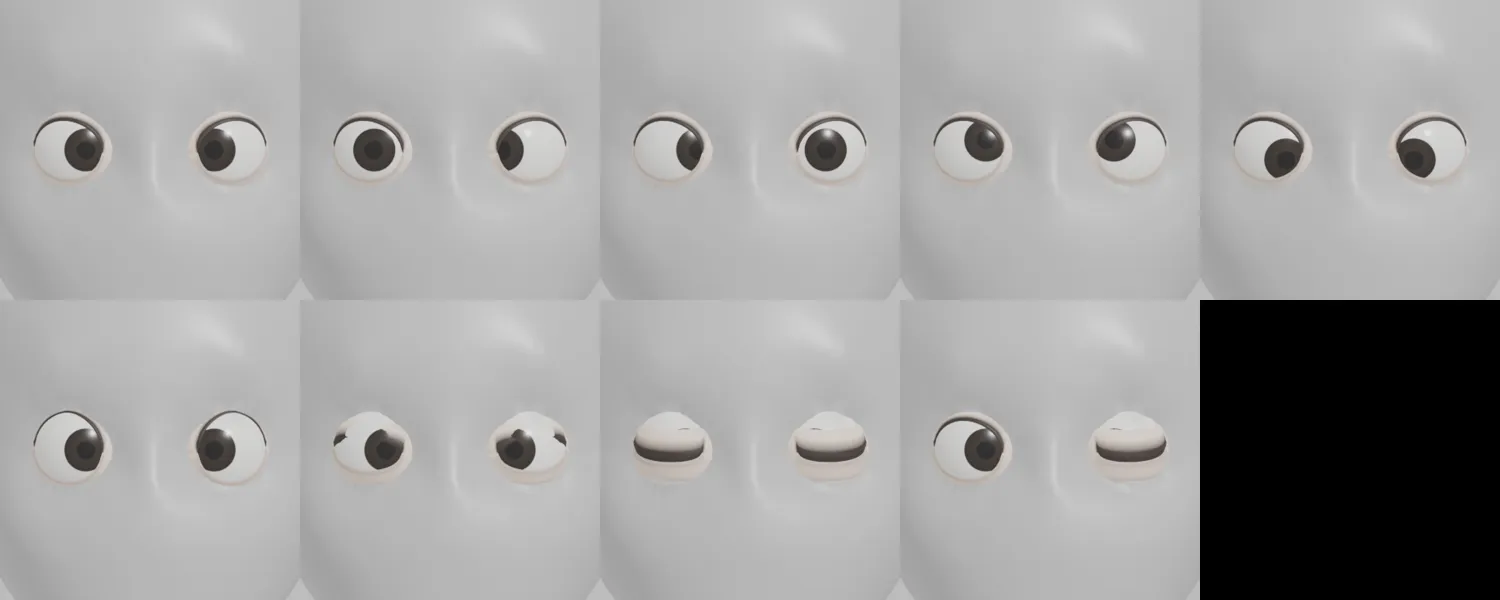
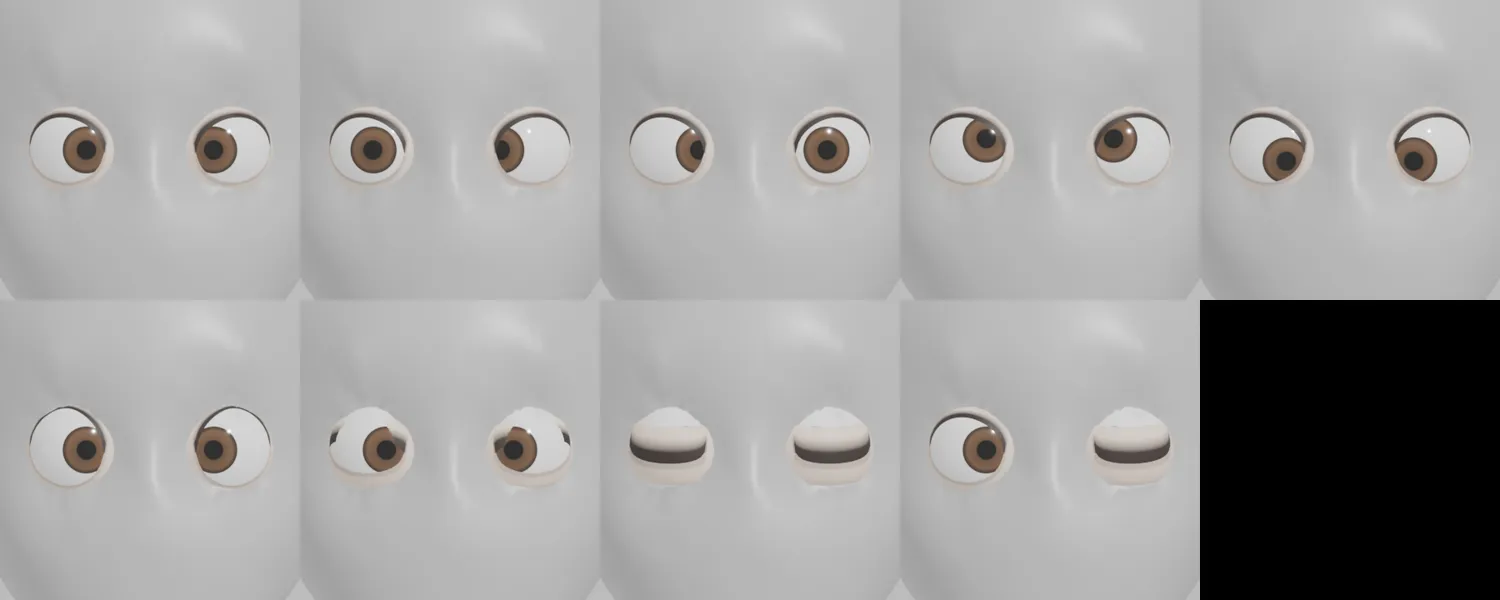
fix(nam-003): mắt Tùng to hơn 10%, mống nâu rõ vân, lòng trắng sạch, viền mí đậm hơn

diff --git a/assets/nhan-vat-3d/nam-003/mat3d_nam003.py b/assets/nhan-vat-3d/nam-003/mat3d_nam003.py
@@ -40,7 +40,7 @@ def _mat_mi(p):
 def _mat_nhan(p, R):
     """Tròng trắng → mống → đồng tử theo khoảng cách tới trục −Y của object (đơn vị theo R)."""
     m = bpy.data.materials.new('NhanCau_' + p['ten']); m.use_nodes = True; nt = m.node_tree; N = nt.nodes; L = nt.links
-    b = N['Principled BSDF']; b.inputs['Roughness'].default_value = 0.25
+    b = N['Principled BSDF']; b.inputs['Roughness'].default_value = 0.12
     tc = N.new('ShaderNodeTexCoord'); sp = N.new('ShaderNodeSeparateXYZ'); L.new(tc.outputs['Object'], sp.inputs[0])
     def op(o, a, bb=None):
         n = N.new('ShaderNodeMath'); n.operation = o
@@ -51,11 +51,11 @@ def _mat_nhan(p, R):
     r = op('SQRT', op('ADD', op('MULTIPLY', sp.outputs['X'], sp.outputs['X']), op('MULTIPLY', sp.outputs['Z'], sp.outputs['Z'])))
     r = op('DIVIDE', r, R)
     r = op('ADD', r, op('MULTIPLY', op('GREATER_THAN', sp.outputs['Y'], 0.0), 5.0))   # nửa sau: coi như xa trục
-    cr = N.new('ShaderNodeValToRGB'); L.new(r, cr.inputs[0]); e = cr.color_ramp; e.interpolation = 'EASE'
+    cr = N.new('ShaderNodeValToRGB'); L.new(r, cr.inputs[0]); e = cr.color_ramp; e.interpolation = 'LINEAR'
     mt = p['mong_to']; mc = p['mong_mau']
     e.elements[0].position = 0.0; e.elements[0].color = (0.005, 0.004, 0.004, 1)
-    e.elements[1].position = 1.0; e.elements[1].color = (0.93, 0.91, 0.88, 1)
-    for pos, col in ((mt * 0.42, (0.005, 0.004, 0.004)), (mt * 0.48, mc), (mt * 0.92, tuple(c * 0.75 for c in mc)), (mt * 1.0, (0.02, 0.015, 0.013)), (mt * 1.05, (0.93, 0.91, 0.88))):
+    e.elements[1].position = 1.0; e.elements[1].color = (0.97, 0.96, 0.94, 1)
+    for pos, col in ((mt * 0.40, (0.004, 0.003, 0.003)), (mt * 0.44, mc), (mt * 0.80, tuple(min(1, c * 1.5) for c in mc)), (mt * 0.95, tuple(c * 0.6 for c in mc)), (mt * 1.0, (0.012, 0.009, 0.008)), (mt * 1.03, (0.97, 0.96, 0.94))):
         el = e.elements.new(pos); el.color = (*col, 1)
     L.new(cr.outputs['Color'], b.inputs['Base Color'])
     return m
@@ -93,7 +93,7 @@ def _luoi_mi(C, Rm, U, V, tan_ng, side, tren, mep_fn, p):
         uu = us * (1 + 0.25 * t)                                   # rìa ngoài loe ra
         s = np.clip((t - 0.35) / 0.65, 0, 1); s = s * s * (3 - 2 * s)
         r = Rm - s * 0.009                                         # thụt vào để vùi dưới da
-        r = r + (0.0006 if t > 0 else 0) * np.exp(-((t - 0.08) / 0.05) ** 2)   # gờ mí nhẹ
+        pass
         rows.append(np.asarray(C) + r[..., None] * _dir(uu, v) if np.ndim(r) else np.asarray(C) + r * _dir(uu, v))
         w = p['mat_vien'] / Rm                                     # bề rộng nét viền theo góc
         if tren:

diff --git a/assets/nhan-vat-3d/nam-003/nhan_vat_nam003.py b/assets/nhan-vat-3d/nam-003/nhan_vat_nam003.py
@@ -21,7 +21,7 @@ MAC_DINH = dict(
 NHAN_VAT = dict(
     tung=dict(
         cao=1.70, da=(0.92, 0.74, 0.62),
-        mi_doi=True, mat_vien=0.0020, mong_mau=(0.03, 0.02, 0.015),
+        mat_rong=1.10, mat_cao=0.82, mi_doi=True, mat_vien=0.0026, mong_mau=(0.10, 0.055, 0.03),
         may_day=1.3,
         mieng_rong=1.15, mieng_cao=0.85, moi_mau=(0.80, 0.42, 0.40),
         bop=dict(tai=0.8, ham=1.0, cam=1.0, mui_thap=1.0, mui_thon=1.0, ma_hop=1.0),
